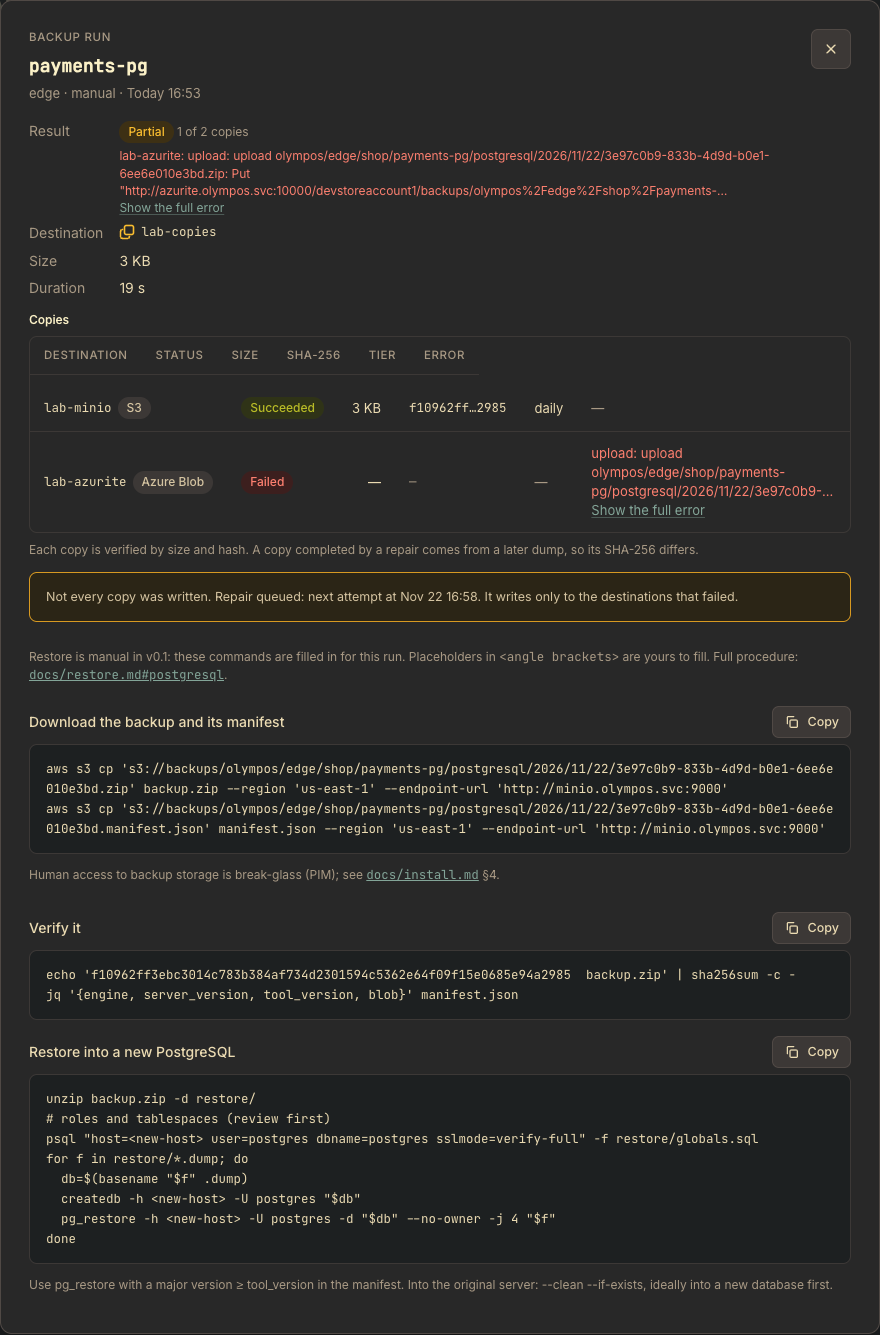
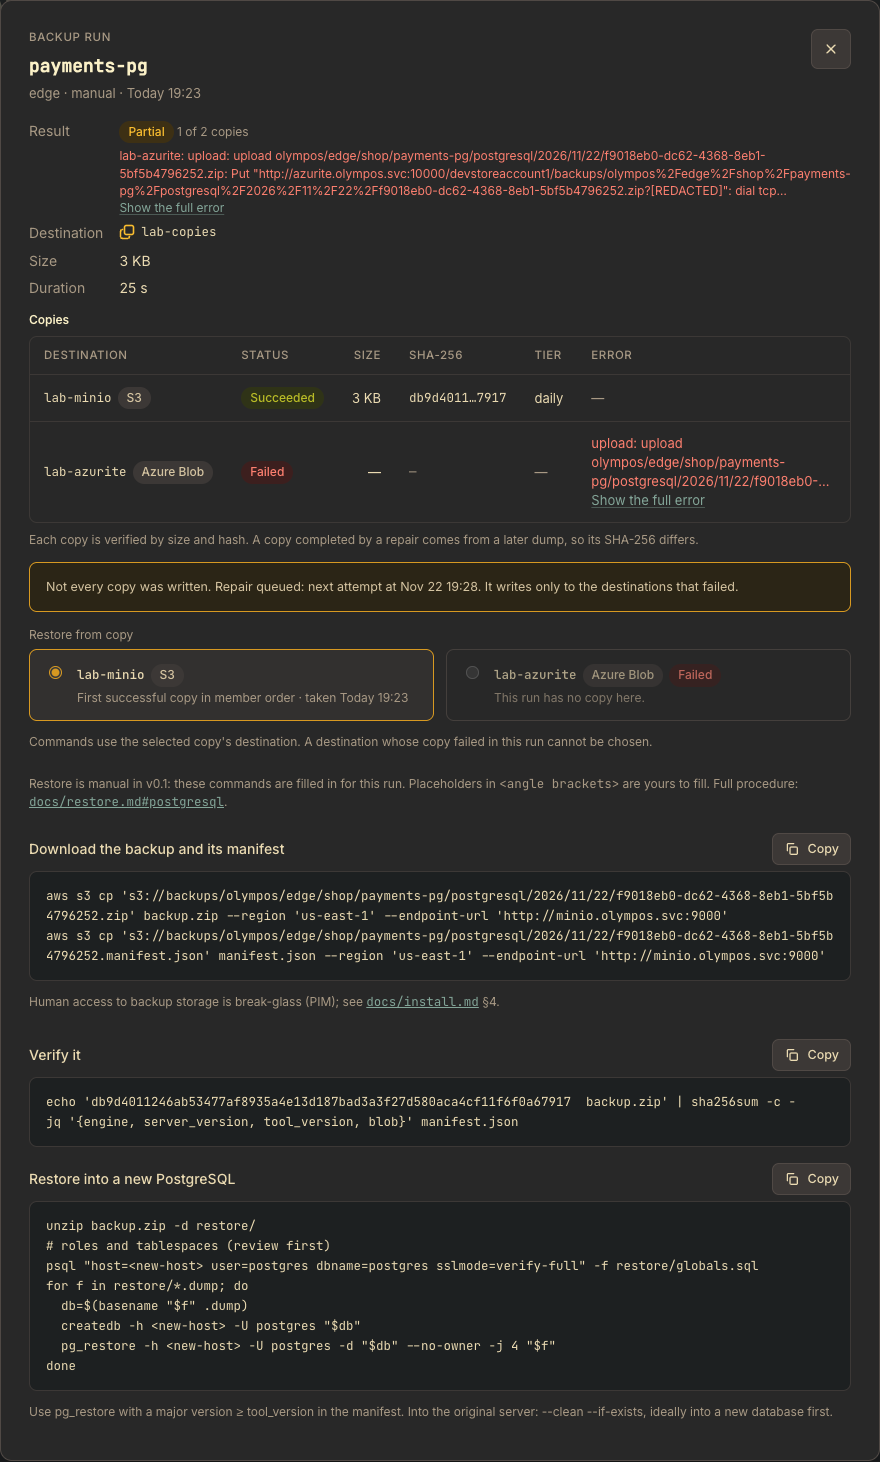
fix(web): destination buttons, copies table layout, failed copies in restore (#36)
* fix(web): destination buttons, copies table layout, failed copies in restore

- New destination sits in the Destinations card's header, like New group.
- The copies table used the generic .stack-sm flex class for its phone layout,
  so on wide screens the header and the rows were laid out as separate flex
  items with their own widths. The table now uses its own .cards-sm class.
- Restore from copy lists every destination of the run: one whose copy failed
  in this run is shown as Failed and cannot be chosen. A copy a repair wrote
  there is reached from the repair run (run dialog) or explicitly selected
  (Olympos database card), instead of looking like one of this run's copies.

* docs: screenshots for the destination buttons, copies table and restore picker

* fix(web): padding for card bodies

.card-body was used by five cards (Olympos database, Kubernetes secrets,
sensitive data in ConfigMaps, TLS name changes) but never defined, so their
content touched the card's edges.

---------

diff --git a/web/src/ui/BackupRunDialog.tsx b/web/src/ui/BackupRunDialog.tsx
@@ -42,41 +42,108 @@ export function RestoreSteps({ guide }: { guide: RestoreGuide }) {
 /** The run that wrote the guide's own copies: they come first, repairs after. */
 const guideRunId = (guide: RestoreGuide, runId?: string) => runId ?? guide.copies?.[0]?.run_id;
 
-function copyHint(c: RestoreCopy, i: number, ownRun: string | undefined): string {
-  const at = relDateTime(c.taken_at);
-  if (ownRun && c.run_id !== ownRun) return `Completed later by a repair, taken at ${at}`;
-  return i === 0 ? `First successful copy in member order · taken ${at}` : `Taken ${at}`;
+/** One line of the copy selector: a destination of this run, its own copy and a later repair's copy. */
+type CopyOption = { destination_id: string; name: string; kind: RestoreCopy['kind']; own?: RestoreCopy; repair?: RestoreCopy };
+
+/**
+ * The run's destinations in member order: the run's copy rows when known (a failed one stays in the
+ * list, disabled), otherwise the guide's own copies. Repair copies hang off the destination they
+ * completed and are never offered as if this run had written them.
+ */
+function copyOptions(guide: RestoreGuide, own: string | undefined, runCopies?: BackupRunCopy[]): CopyOption[] {
+  const copies = guide.copies ?? [];
+  const mine = (d: string) => copies.find((c) => c.destination_id === d && (!own || c.run_id === own));
+  const repair = (d: string) => copies.filter((c) => c.destination_id === d && own && c.run_id !== own).at(-1);
+  const rows = runCopies?.length
+    ? runCopies.map((c) => ({ destination_id: c.destination_id, name: c.destination_name, kind: c.destination_kind }))
+    : copies.filter((c) => !own || c.run_id === own).map((c) => ({ destination_id: c.destination_id, name: c.name, kind: c.kind }));
+  return rows.map((r) => ({ ...r, own: mine(r.destination_id), repair: repair(r.destination_id) }));
 }
 
 /**
- * Restore commands with a copy selector when the run has more than one succeeded copy.
+ * Restore commands with a copy selector when the run wrote to more than one destination. A
+ * destination whose copy failed in this run is listed but cannot be chosen; when a repair completed
+ * it later, `onOpenRepair` opens that repair run (or, without it, the repair's copy is selected).
  * `onSelect` refetches the guide for that destination (`?copy=<destination id>`).
  */
-export function RestoreWithCopies({ guide, runId, onSelect, pending, error }: { guide: RestoreGuide; runId?: string; onSelect: (destinationId: string) => void; pending?: boolean; error?: unknown }) {
-  const copies = guide.copies ?? [];
+export function RestoreWithCopies({
+  guide,
+  runId,
+  runCopies,
+  onSelect,
+  onOpenRepair,
+  pending,
+  error,
+}: {
+  guide: RestoreGuide;
+  runId?: string;
+  runCopies?: BackupRunCopy[];
+  onSelect: (destinationId: string) => void;
+  onOpenRepair?: (runId: string) => void;
+  pending?: boolean;
+  error?: unknown;
+}) {
   const own = guideRunId(guide, runId);
+  const options = copyOptions(guide, own, runCopies);
+  const selected = (guide.copies ?? []).find((c) => c.selected);
+  const fromRepair = selected && own && selected.run_id !== own ? selected : undefined;
+  const firstOwn = options.find((o) => o.own)?.destination_id;
   return (
     <div className="stack-sm" style={{ gap: 12 }}>
-      {copies.length > 1 && (
+      {options.length > 1 && (
         <fieldset className="opts" aria-busy={pending || undefined}>
           <legend className="lbl">Restore from copy</legend>
-          {copies.map((c, i) => (
-            <label className="opt" key={`${c.destination_id}-${c.run_id}`}>
-              <input type="radio" name="restore-copy" checked={c.selected} onChange={() => onSelect(c.destination_id)} disabled={pending} />
-              <span style={{ minWidth: 0 }}>
-                <span className="inline-sm">
-                  <span className="t1 mono">{c.name}</span>
-                  <KindBadge kind={c.kind} />
+          {options.map((o) => {
+            const hintId = `copy-hint-${o.destination_id}`;
+            return (
+              <label className="opt" key={o.destination_id}>
+                <input
+                  type="radio"
+                  name="restore-copy"
+                  checked={!!o.own && !!o.own.selected}
+                  onChange={() => onSelect(o.destination_id)}
+                  disabled={pending || !o.own}
+                  aria-describedby={hintId}
+                />
+                <span style={{ minWidth: 0 }}>
+                  <span className="inline-sm">
+                    <span className="t1 mono">{o.name}</span>
+                    <KindBadge kind={o.kind} />
+                    {!o.own && <Badge tone="crit">Failed</Badge>}
+                  </span>
+                  <span className="t2" id={hintId}>
+                    {o.own
+                      ? `${o.destination_id === firstOwn ? 'First successful copy in member order · ' : ''}taken ${relDateTime(o.own.taken_at)}`
+                      : 'This run has no copy here.'}
+                    {!o.own && o.repair && (
+                      <>
+                        {' '}
+                        A repair wrote one at {relDateTime(o.repair.taken_at)}:{' '}
+                        <button
+                          type="button"
+                          className="link-btn"
+                          disabled={pending}
+                          onClick={() => (onOpenRepair ? onOpenRepair(o.repair!.run_id) : onSelect(o.destination_id))}
+                        >
+                          {onOpenRepair ? 'open the repair run' : 'use the repair\'s copy'}
+                        </button>
+                      </>
+                    )}
+                  </span>
                 </span>
-                <span className="t2">{copyHint(c, i, own)}</span>
-              </span>
-            </label>
-          ))}
+              </label>
+            );
+          })}
         </fieldset>
       )}
-      {copies.length > 1 && (
+      {fromRepair && (
+        <p className="small" style={{ margin: 0 }}>
+          Commands use the copy a repair wrote to <span className="mono">{fromRepair.name}</span> at {relDateTime(fromRepair.taken_at)}: a later dump than this run.
+        </p>
+      )}
+      {options.length > 1 && (
         <p className="muted small" style={{ margin: 0 }}>
-          Commands use the selected copy&apos;s destination. Failed copies are not listed.
+          Commands use the selected copy&apos;s destination. A destination whose copy failed in this run cannot be chosen.
         </p>
       )}
       <FormError error={error} />
@@ -115,9 +182,9 @@ export function CopiesTable({ copies, isRepair, title = 'Copies', id = 'run-copi
       <h3 id={id} className="small" style={{ margin: '0 0 8px', fontWeight: 600 }}>
         {title}
       </h3>
-      {/* stack-sm: one card per copy on phones, so the error is never off-screen; explicit roles keep the table semantics there */}
+      {/* cards-sm: one card per copy on phones, so the error is never off-screen; explicit roles keep the table semantics there */}
       <div className="boxed tight table-wrap">
-        <table className="t stack-sm" role="table" aria-labelledby={id}>
+        <table className="t cards-sm" role="table" aria-labelledby={id}>
           <thead>
             <tr role="row">
               <th role="columnheader">Destination</th>
@@ -283,7 +350,7 @@ export function BackupRunDialog({ id, onClose }: { id: string; onClose: () => vo
             {(isGroupRun(run) || !!run.repair_of) && run.copies && run.copies.length > 0 && <CopiesTable copies={run.copies} isRepair={!!run.repair_of} />}
             <RepairNote run={run} onOpen={open} />
             {run.restore ? (
-              <RestoreWithCopies guide={run.restore} runId={run.id} onSelect={setCopy} pending={q.isPlaceholderData} />
+              <RestoreWithCopies guide={run.restore} runId={run.id} runCopies={run.copies} onSelect={setCopy} onOpenRepair={open} pending={q.isPlaceholderData} />
             ) : run.status !== 'succeeded' && run.status !== 'partial' ? null : run.trigger === 'test' ? (
               <p className="muted small">Dry runs only check the setup; they are not restorable backups.</p>
             ) : (

diff --git a/web/src/ui/SelfBackupCard.tsx b/web/src/ui/SelfBackupCard.tsx
@@ -4,7 +4,7 @@ import { useEffect, useRef, useState } from 'react';
 import { Link } from '@tanstack/react-router';
 import { useMutation, useQuery, useQueryClient } from '@tanstack/react-query';
 import { api, errorMessage } from '../api/client';
-import type { BackupRun, Destination, DestinationGroup, ItemList, SelfBackup, SelfBackupInput } from '../api/types';
+import type { BackupRun, BackupRunCopy, Destination, DestinationGroup, ItemList, SelfBackup, SelfBackupInput } from '../api/types';
 import { useCan } from '../auth/me';
 import { describeCron } from '../lib/cron';
 import { age, bytes, relDateTime } from '../lib/format';
@@ -194,7 +194,7 @@ export function SelfBackupCard({ focus }: { focus?: boolean }) {
               )}
             </div>
             {showRestore && v.restore && (
-              <SelfRestore guide={v.restore} runId={lastOk?.id} onClose={() => setShowRestore(false)} />
+              <SelfRestore guide={v.restore} runId={lastOk?.id} runCopies={lastOk?.copies} onClose={() => setShowRestore(false)} />
             )}
           </>
         )}
@@ -204,7 +204,7 @@ export function SelfBackupCard({ focus }: { focus?: boolean }) {
 }
 
 /** Restore commands of the latest restorable dump; another copy refetches `/backup/self?copy=`. */
-function SelfRestore({ guide, runId, onClose }: { guide: NonNullable<SelfBackup['restore']>; runId?: string; onClose: () => void }) {
+function SelfRestore({ guide, runId, runCopies, onClose }: { guide: NonNullable<SelfBackup['restore']>; runId?: string; runCopies?: BackupRunCopy[]; onClose: () => void }) {
   const [copy, setCopy] = useState('');
   const q = useQuery({
     queryKey: ['backup-self', { copy }],
@@ -215,7 +215,7 @@ function SelfRestore({ guide, runId, onClose }: { guide: NonNullable<SelfBackup[
   const shown = (copy && q.data?.restore) || guide;
   return (
     <Modal open onClose={onClose} size="xl" eyebrow="olympos-self" title="Restore the Olympos database" description="Latest restorable dump. The same Key Vault (KEK) is required.">
-      <RestoreWithCopies guide={shown} runId={runId} onSelect={setCopy} pending={q.isFetching} error={q.isError ? q.error : undefined} />
+      <RestoreWithCopies guide={shown} runId={runId} runCopies={runCopies} onSelect={setCopy} pending={q.isFetching} error={q.isError ? q.error : undefined} />
     </Modal>
   );
 }

diff --git a/web/src/test/ui.test.tsx b/web/src/test/ui.test.tsx
@@ -297,7 +297,7 @@ describe('partial backup runs', () => {
     expect(screen.getByText('Queued')).toBeInTheDocument();
   });
 
-  it('the run dialog lists every copy and switches the restore commands to another copy', async () => {
+  it('the run dialog lists every copy and offers only its own copies for restore', async () => {
     const { BackupRunDialog } = await import('../ui/BackupRunDialog');
     const copy = (over: Partial<BackupRunCopy>): BackupRunCopy => ({ destination_id: 'd1', destination_name: 'blob-weu-backups', destination_kind: 'azure_blob', status: 'succeeded', blob_path: 'p/a.zip', bytes: 3.1e9, sha256: '9f2c4a1e5d6c7b30', tier: 'daily', error: '', ...over });
     const run: BackupRun = {
@@ -342,13 +342,14 @@ describe('partial backup runs', () => {
 
     const picker = screen.getByRole('group', { name: 'Restore from copy' });
     expect(within(picker).getByRole('radio', { name: /blob-weu-backups/ })).toBeChecked();
-    const repaired = within(picker).getByRole('radio', { name: /minio-factory/ });
-    expect(repaired).not.toBeChecked();
-    expect(repaired.closest('label')).toHaveTextContent('Completed later by a repair, taken at');
+    // the destination whose copy failed in this run is listed but cannot be chosen
+    const failed = within(picker).getByRole('radio', { name: /minio-factory/ });
+    expect(failed).toBeDisabled();
+    expect(failed).not.toBeChecked();
+    expect(failed.closest('label')).toHaveTextContent('This run has no copy here.');
     expect(screen.getByText('az storage blob download --name p/a.zip')).toBeInTheDocument();
-    await user.click(repaired);
-    expect(await screen.findByText('aws s3 cp s3://olympos-backups/p/b.zip .')).toBeInTheDocument();
-    expect(urls.at(-1)).toBe('/api/v1/backup/runs/r1?copy=d2');
-    expect(within(picker).getByRole('radio', { name: /minio-factory/ })).toBeChecked();
+    // the copy a repair wrote there is restored from that repair run
+    await user.click(within(picker).getByRole('button', { name: 'open the repair run' }));
+    await vi.waitFor(() => expect(urls.at(-1)).toBe('/api/v1/backup/runs/r2'));
   });
 });

diff --git a/docs/design/backups.html b/docs/design/backups.html
@@ -142,13 +142,13 @@ a{color:#83a598}a:hover{color:#8ec07c}
 <fieldset style="border: 0; padding: 0; margin: 0; display: flex; flex-direction: column; gap: 10px">
 <legend class="lbl">Restore from copy</legend>
 <label class="opt on"><input type="radio" name="copy" checked style="margin-top: 2px"><span><span class="mono">blob-weu-backups</span> <span class="badge mute">Azure Blob</span><br><span class="muted" style="font-size: 12px">First successful copy in member order &middot; taken 02:00</span></span></label>
-<label class="opt"><input type="radio" name="copy" style="margin-top: 2px"><span><span class="mono">s3-fra-offsite</span> <span class="badge mute">S3</span><br><span class="muted" style="font-size: 12px">Completed later by a repair, taken at 02:21</span></span></label>
+<label class="opt" style="opacity: 0.7; cursor: not-allowed"><input type="radio" name="copy" disabled style="margin-top: 2px"><span><span class="mono">s3-fra-offsite</span> <span class="badge mute">S3</span> <span class="badge crit">Failed</span><br><span class="muted" style="font-size: 12px">This run has no copy here. A repair wrote one at 02:21: <a href="#">open the repair run</a></span></span></label>
 </fieldset>
 <pre class="code" style="margin-top: 12px">az storage blob download --auth-mode login --account-name stolympweu01 \
   --container-name backups --name billing-pg/2026-11-22T02-00-00Z/billing.dump \
   --file backup.dump
 sha256sum backup.dump   # must match the sha256 of this copy: 9f2c4a1e&hellip;7b30</pre>
-<div class="muted" style="font-size: 12px; margin-top: 8px">Commands use the selected copy's destination. Failed copies are not listed.</div>
+<div class="muted" style="font-size: 12px; margin-top: 8px">Commands use the selected copy's destination. A destination whose copy failed in this run cannot be chosen.</div>
 </div>
 <div style="display: flex; justify-content: flex-end"><button class="btn">Close</button></div>
 </section>

diff --git a/web/src/styles/app.css b/web/src/styles/app.css
@@ -454,6 +454,10 @@ code,
 .card h2.title {
   margin-bottom: 14px;
 }
+/* the content of a card under its .card-head (same side padding as the head) */
+.card-body {
+  padding: 16px 20px 20px;
+}
 .card-foot {
   padding: 12px 20px;
   font-size: 12px;
@@ -622,9 +626,9 @@ code,
   line-clamp: 3;
   overflow: hidden;
 }
-/* .t.stack-sm: on phones each row is a card of label / value lines (labels from data-label). */
+/* .t.cards-sm: on phones each row is a card of label / value lines (labels from data-label). */
 @media (max-width: 640px) {
-  .t.stack-sm thead {
+  .t.cards-sm thead {
     position: absolute;
     width: 1px;
     height: 1px;
@@ -632,21 +636,21 @@ code,
     clip-path: inset(50%);
     white-space: nowrap;
   }
-  .t.stack-sm,
-  .t.stack-sm tbody,
-  .t.stack-sm tr,
-  .t.stack-sm td {
+  .t.cards-sm,
+  .t.cards-sm tbody,
+  .t.cards-sm tr,
+  .t.cards-sm td {
     display: block;
     width: 100%;
   }
-  .t.stack-sm tr {
+  .t.cards-sm tr {
     padding: 8px 0;
     border-bottom: 1px solid var(--border);
   }
-  .t.stack-sm tbody tr:last-child {
+  .t.cards-sm tbody tr:last-child {
     border-bottom: 0;
   }
-  .t.stack-sm td {
+  .t.cards-sm td {
     display: grid;
     grid-template-columns: 6.5rem minmax(0, 1fr);
     gap: 8px;
@@ -657,17 +661,17 @@ code,
     white-space: normal;
     text-align: left;
   }
-  .t.stack-sm td::before {
+  .t.cards-sm td::before {
     content: attr(data-label);
     color: var(--fg-muted);
     font-size: 11.5px;
     text-transform: uppercase;
     letter-spacing: 0.05em;
   }
-  .t.stack-sm td.err-cell {
+  .t.cards-sm td.err-cell {
     min-width: 0;
   }
-  .t.stack-sm td .inline-sm {
+  .t.cards-sm td .inline-sm {
     flex-wrap: wrap;
   }
 }

diff --git a/web/src/pages/settings/Destinations.tsx b/web/src/pages/settings/Destinations.tsx
@@ -26,13 +26,6 @@ export function DestinationsPage() {
     <SettingsLayout
       current="destinations"
       sub="Destinations · the Olympos server is the only writer to backup storage"
-      actions={
-        canAdmin && (
-          <button type="button" className="btn pri" onClick={openNew}>
-            New destination
-          </button>
-        )
-      }
     >
       <section className="card" aria-labelledby="dst-t">
         <div className="card-head">
@@ -40,6 +33,11 @@ export function DestinationsPage() {
             <h2 id="dst-t">Destinations</h2>
             <div className="desc">Azure Blob containers, S3 buckets (AWS or S3-compatible) and NFS shares mounted into the server.</div>
           </div>
+          {canAdmin && (
+            <button type="button" className="btn pri" onClick={openNew}>
+              New destination
+            </button>
+          )}
         </div>
         <DataTable
           label="Destinations"

diff --git a/docs/restore.md b/docs/restore.md
@@ -18,17 +18,19 @@ a complete backup with its own manifest, so restore from whichever copy you can 
 
 - **Choosing a copy.** A run's details list its *Copies* (destination, status, size, SHA-256, tier, error).
   *Restore from copy* picks the copy the commands are built from; they then download from that copy's
-  destination. The default is the first successful copy in the group's member order. Failed copies are not
-  offered, even when their data blob was written (only the manifest failed, so the copy cannot be
-  verified).
+  destination. The default is the first successful copy in the group's member order. A destination whose
+  copy failed in this run is listed as *Failed* and cannot be chosen, even when its data blob was written
+  (only the manifest failed, so the copy cannot be verified).
 - **The same in the API.** `GET /api/v1/backup/runs/{id}?copy=<destination id>` returns the run with the
   restore guide for that copy; `restore.copies` lists every copy it can be built from, with `selected` on
   the one in use. For `olympos-self`, use `GET /api/v1/backup/self?copy=<destination id>`. A destination
   without a successful copy of the run answers `422`.
 - **Copies completed by a repair.** When a run was `partial`, a repair run writes the missing copies later:
   5 minutes after the run, or after 30 minutes or 2 hours more when the first repairs failed
-  ([Findings and events](findings-and-events.md#partial-backups-and-repairs)). The original run offers
-  those copies too, marked *Completed later by a repair*. A repaired copy is a **different, later dump**:
+  ([Findings and events](findings-and-events.md#partial-backups-and-repairs)). In the original run's
+  *Restore from copy*, that destination stays *Failed*; its line says when a repair wrote a copy there and
+  links to the repair run, whose details have the restore commands for it. A repaired copy is a
+  **different, later dump**:
   its blob and manifest are named after the repair run (`<repair_run_id>.<ext>`,
   `<repair_run_id>.manifest.json`, in the folder of the day the repair started), and its `sha256` differs
   from the other copies. Verify it against its own manifest.

diff --git a/docs/restore-olympos.md b/docs/restore-olympos.md
@@ -32,12 +32,13 @@ S3: `aws s3 cp s3://<bucket>/<path>/<run_id>.zip .`; NFS: copy from the mounted 
 
 **When `olympos-self` writes to a destination group**, every member holds its own copy of each dump, so
 losing one storage account or bucket does not lose Olympos. Restore from whichever copy you can reach. The
-copies a run wrote itself have the same path below each member's prefix; a copy marked *Completed later by
-a repair* is the exception: it comes from a later dump, named after the repair run, with its own checksum
+copies a run wrote itself have the same path below each member's prefix; a copy a repair wrote later is the
+exception: it comes from a later dump, named after the repair run, with its own checksum
 ([Restoring backups](restore.md#backups-with-several-copies)). Each copy's manifest names its
 `destination` and the `group`; check `sha256` against that copy's own manifest. While the server is up,
 *Restore commands* on the *Olympos database* card has a *Restore from copy* choice
-(`GET /api/v1/backup/self?copy=<destination id>` in the API):
+(`GET /api/v1/backup/self?copy=<destination id>` in the API). A member whose copy failed in that run is
+listed as *Failed*; when a repair wrote one there later, *use the repair's copy* switches the commands to it:
 
 ![Restore the Olympos database from a copy](images/start-30-olympos-restore-copy.png)
 

diff --git a/CHANGELOG.md b/CHANGELOG.md
@@ -33,8 +33,9 @@ All notable changes to this project are documented here. The format follows
   after the end of the stream, is detached so the other copies can finish. An upload that does not return
   within 30 seconds after that (blocked in the kernel on a hard NFS mount) is abandoned and logged.
 - Restore from a chosen copy: *Restore from copy* on a run and on the *Olympos database* card, and
-  `?copy=<destination id>` on `GET /api/v1/backup/runs/{id}` and `GET /api/v1/backup/self`. Copies that a
-  repair completed are offered too.
+  `?copy=<destination id>` on `GET /api/v1/backup/runs/{id}` and `GET /api/v1/backup/self`. A destination
+  whose copy failed in the run is listed but cannot be chosen; a copy a repair wrote there is restored from
+  the repair run (in the API, `?copy=` on the original run still returns it).
 - Metric `olympos_backup_copies_total{destination,status}`; `olympos_backup_runs_total` counts
   `status="partial"`.
 
